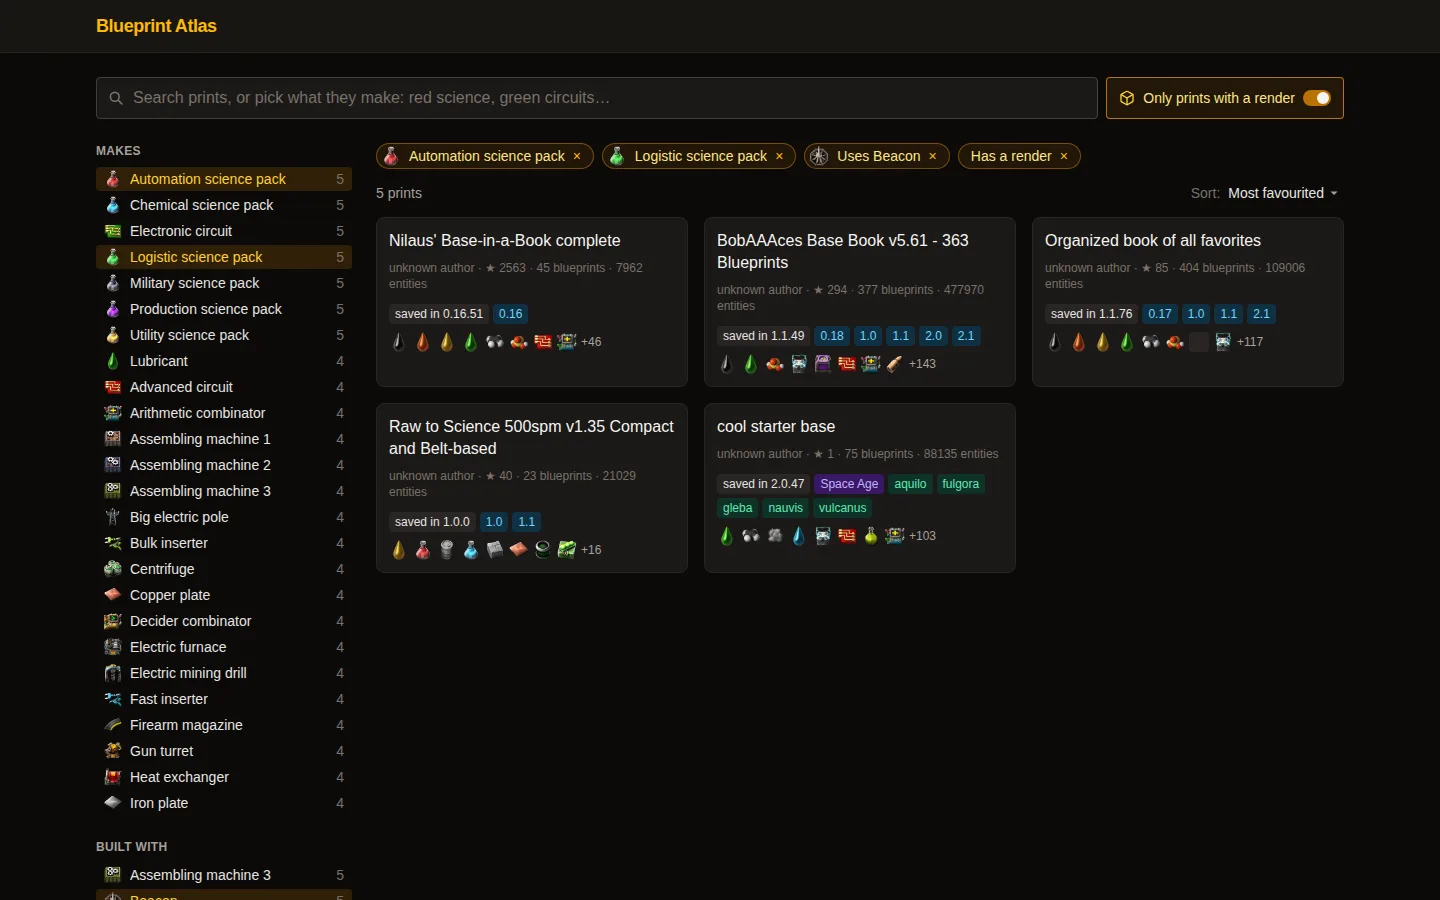
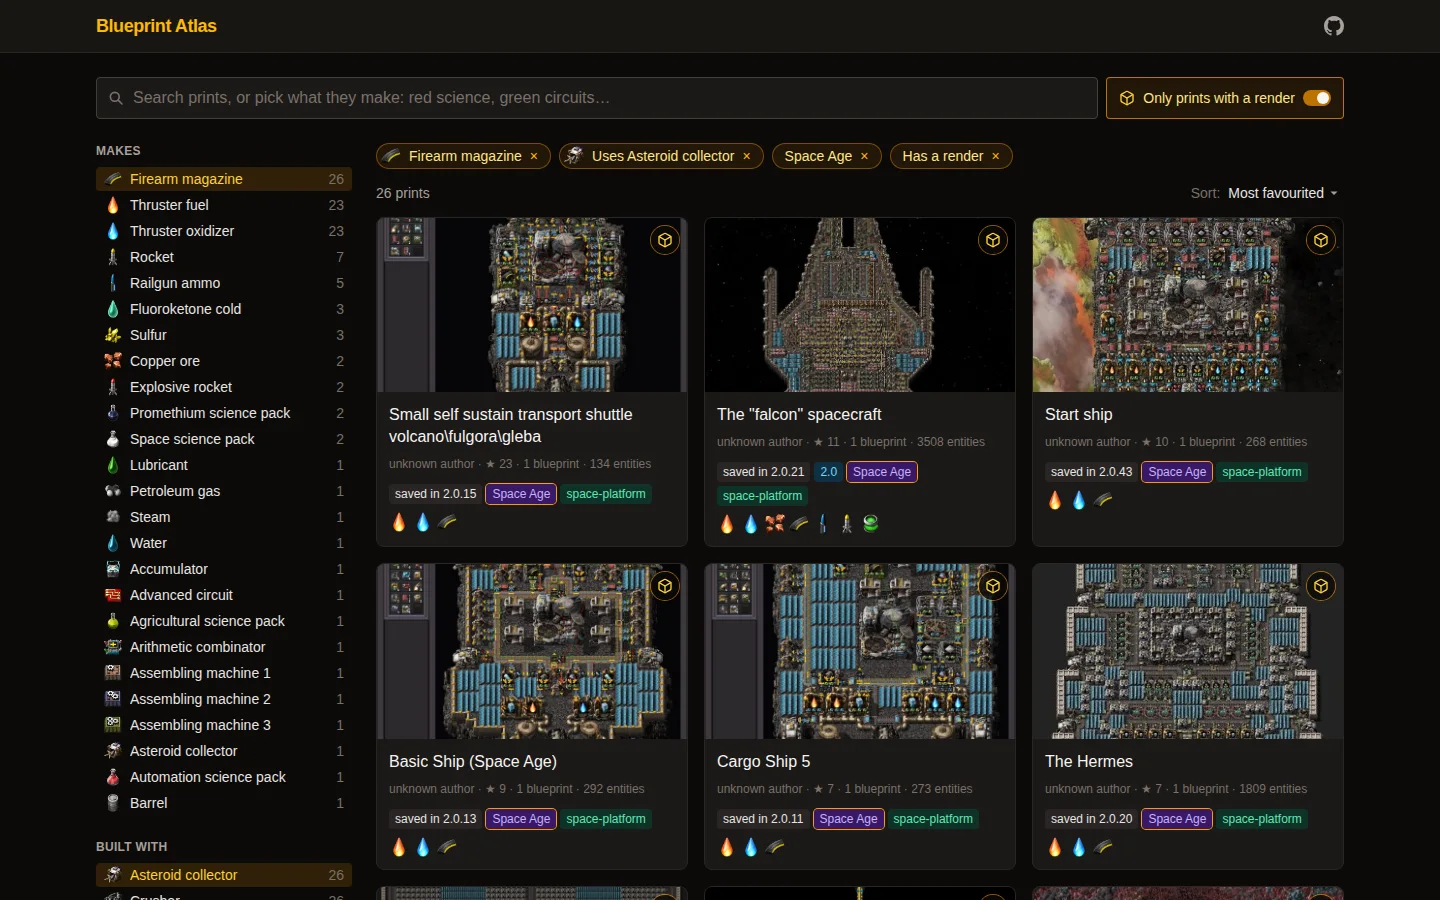
README: features section and a new filters screenshot

Changed region(s): [[0.0625, 0.1556, 0.9375, 1.0], [0.5938, 0.9644, 0.625, 1.0]]

diff --git a/README.md b/README.md
@@ -1,6 +1,6 @@
 # Blueprint Atlas
 
-**Find Factorio blueprints by what they actually do, and see them the way the game draws them.**
+**Find Factorio blueprints by what they actually do, and view each blueprint's high-res render.**
 Blueprint Atlas is a searchable index of the blueprints shared on
 [factorioprints.com](https://factorioprints.com). Every blueprint string is decoded and analysed,
 and the blueprints are drawn as high-resolution in-game renders you can pan and zoom, down to
@@ -12,11 +12,7 @@ every inserter, belt and module.
 12,052-entity space science build, zoomed in to the game's full sprite resolution. Hovering a
 machine shows its recipe, modules, size and direction.</sub>
 
-## What it adds
-
-factorioprints.com is where the community shares its blueprints: each print has the author's
-title, description, tags, a screenshot and the exchange string. Blueprint Atlas reads the
-blueprint inside the string as well, which makes these possible:
+## Features
 
 - **Search by contents, not just titles.** Filter by what a print makes or takes, the buildings,
   recipes and modules it uses, game version, Space Age, planets, mods, circuits and trains. The
@@ -29,7 +25,7 @@ blueprint inside the string as well, which makes these possible:
 - **Only prints with a render.** One switch beside the search box keeps the results to prints you
   can look at before you copy anything.
 
-![Search with four stacked filters: makes automation and logistic science packs, uses beacons, has a render](docs/screenshots/filters.webp)
+![Search with four stacked filters: makes firearm magazines, uses asteroid collectors, needs Space Age, has a render: 26 space platforms](docs/screenshots/filters.webp)
 
 - **Game renders of every page.** Pages saved in Factorio 2.0 or later, and the pages of the
   1,000 most-favourited prints whatever their version, are drawn offline with the game's own
@@ -40,15 +36,19 @@ blueprint inside the string as well, which makes these possible:
 ![The whole of Big Boy Space Science in the full-screen viewer](docs/screenshots/render-overview.webp)
 
 - **Books you can navigate.** Big books get tabs for their books and sub-books, with the selected
-  page's render first. Every page can be copied on its own as a blueprint, as can the whole book.
+  page's render first.
 - **Pick from the game's crafting menu.** The search box opens on the game's own item groups,
   with how many prints make each item.
 
 ![Search, with the item picker open on Science: pick what a print makes](docs/screenshots/search.webp)
 
+- **Copy the whole book, or a single blueprint.** "Copy whole book" puts the print's exchange
+  string on your clipboard; "Copy this page" copies just the selected page as a blueprint of its
+  own, ready to paste into the game.
+
 ![A blueprint book: the selected page's game render, then tabs for its books and sub-books over the pages](docs/screenshots/book.webp)
 
-Every print links back to its page on factorioprints.com and credits its author.
+- Every print links back to its page on factorioprints.com and credits its author.
 
 ## How it works
 
